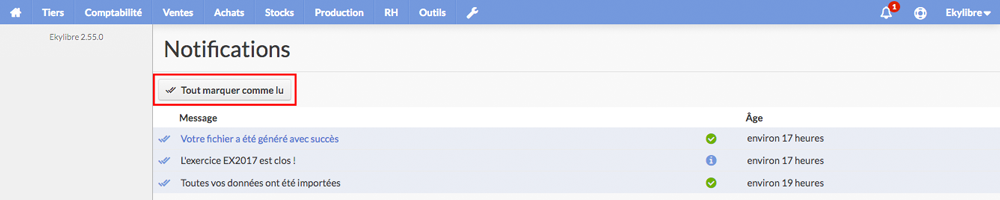
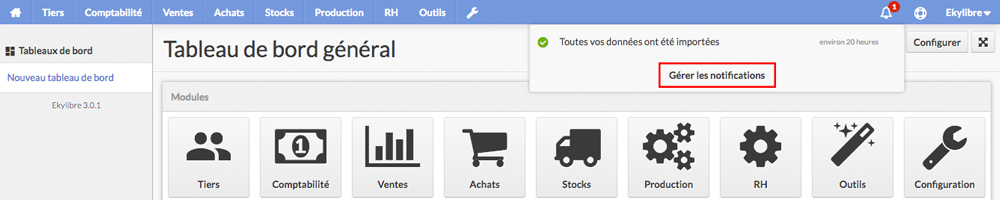
Accountacy 2019 + Notifications

diff --git a/content/fr/chapitre5.html b/content/fr/chapitre5.html
@@ -287,6 +287,14 @@
       <h2 class="texte aerateur">Glossaire du chapitre</h2>
       <div class="divTableGlossaire marge">
          <div class="divTableBody">
+			<div class="divTableRow">
+               <div class="divTableCellGlossaire1">
+                  CSV
+               </div>
+               <div class="divTableCellGlossaire2">
+                  un fichier CSV est un fichier texte où chaque ligne du texte correspond à une ligne d'un tableau et les virgules correspondent aux séparations entre les colonnes
+               </div>
+            </div>
             <div class="divTableRow">
                <div class="divTableCellGlossaire1" style="width: auto">
                   Interface
@@ -308,15 +316,7 @@
                   Notification
                </div>
                <div class="divTableCellGlossaire2">
-                  message émis par l'application
-               </div>
-            </div>
-            <div class="divTableRow">
-               <div class="divTableCellGlossaire1">
-                  CSV
-               </div>
-               <div class="divTableCellGlossaire2">
-                  un fichier CSV est un fichier texte où chaque ligne du texte correspond à une ligne d'un tableau et les virgules correspondent aux séparations entre les colonnes
+                  message émis par l'application ou par le navigateur Web pour alerter l'utilisateur de la fin d'une tâche
                </div>
             </div>
             <div class="divTableRow">
@@ -447,22 +447,39 @@
       <p class="texte">Sur la plupart des tableaux, en mode d'affichage "Liste", il permet de personnaliser la présentation des données &#40;affichage/masquage des colonnes, nombre de lignes par page&#41; et de réaliser des exports aux formats ODF et CSV&nbsp;:</p>
       <p class="texte"><img src="../images/chapitre5/custom1.png" class="contour-img" alt="Personnalisation tableau" data-action="zoom" /></p>
       <p class="texte"><img src="../images/chapitre5/custom2.png" class="contour-img" alt="Personnalisation tableau" data-action="zoom" /></p>
-      <p class="texte">Lorsque l'application vous informe de l'échec ou de la réussite d'une opération interne telle que l'import de données, la génération d'un document ou la clôture d'un exercice comptable, la cloche<img src="../images/chapitre5/bell-o-blue.svg" alt="cloche bleue" height="20" class="align-icone icone-marge-gauche icone-marge-droite">située dans le "Menu utilisateur" est adjointe d'une pastille de couleur rouge avec le nombre de notifications non lues générées par l'application.</p>
+	  <p class="aerateur-haut"><span class="titre-advice texte">Notifications</span></p>
+	  <p class="texte">Le standard «&nbsp;Web Push&nbsp;» permet aux sites Web d’envoyer des notifications à leurs utilisateurs sous forme de nouveaux messages ou de contenu mis à jour. Tant que le navigateur utilisé est ouvert, les sites Web qui ont obtenu une permission peuvent envoyer des notifications à votre navigateur et les afficher à l’écran. Les utilisateurs peuvent facilement autoriser ou désactiver les notifications et contrôler la façon dont ces notifications apparaîtront. Activez ou non les notifications Ekylibre une fois arrivé&#40;e&#41; dans l'application.</p>
+	  <p class="texte"><img src="../images/chapitre5/notif-navigateur1.png" class="contour-img" alt="Notifications navigateur" data-action="zoom" /></p>
+	  <p class="texte">Exemple de notification&nbsp;:</p>
+	  <p class="texte"><img src="../images/chapitre5/notif-navigateur2.png" class="contour-img" alt="Notifications navigateur" data-action="zoom" /></p>
+	  <p class="texte aerateur-haut">En parallèle, Ekylibre dispose de son propre système de notification. Il consigne, dans l'ordre chronologique, l'ensemble des opérations internes réalisées par l'application. Il permet également de consulter l'historique complet de ces opérations en indiquant depuis combien de temps elles ont été effectuées.</p>
+      <p class="texte">Les notifications vous informent notamment de l'échec ou de la réussite d'une opération interne comme par exemple l'import de données, la génération d'un document ou la clôture d'un exercice comptable.<br />La cloche<img src="../images/chapitre5/bell-o-blue.svg" alt="cloche bleue" height="20" class="align-icone icone-marge-gauche icone-marge-droite">située dans le "Menu utilisateur" est alors adjointe d'une pastille de couleur rouge<img src="../images/commun/marker.svg" alt="Notification" height="20" class="align-icone icone-marge-gauche icone-marge-droite">avec le nombre de notifications non lues générées par l'application.</p>
       <p align="center" class="texte"><img src="../images/chapitre5/schema-cloche.svg" alt="Schéma notification" height="30" class="bouton"></p>
-      <p class="texte">Cliquez sur la cloche pour afficher la ou les notification&#40;s&#41; sous le "Menu utilisateur"&nbsp;:</p>
-      <p class="texte"><img src="../images/chapitre5/notification1.png" class="contour-img" alt="Notification" data-action="zoom" /></p>
-      <p class="texte">Cliquez sur le lien "Gérer les notifications" pour afficher toutes les messages conservés dans votre ferme&nbsp;:</p>
-      <p class="texte">Notez qu'en cliquant sur la cloche, seules les notifications dont vous êtes à l'origine sont listées, alors qu'en sélectionnant "Gérer les notifications", les notifications générées par tous les utilisateurs &#40;d'autres personnes ayant accès à votre ferme, voir le <a href="../chapitre11" class="avoid-clicks" target="_self">chapitre 11 - Accès</a>&#41; sont affichées.</p>
+	  <p class="texte">Cliquez sur la cloche pour afficher la ou les nouvelle&#40;s&#41; notification&#40;s&#41; sous le "Menu utilisateur".</p>
+	  <p class="texte"><img src="../images/chapitre5/notification1.png" class="contour-img" alt="Notification" data-action="zoom" /></p>
+	  <p class="texte">Notez qu'en cliquant sur la cloche, seules les notifications dont vous êtes à l'origine sont listées, alors qu'en sélectionnant "Gérer les notifications", les notifications générées par tous les utilisateurs &#40;d'autres personnes ayant accès à votre ferme, voir le <a href="../chapitre11" class="avoid-clicks" target="_self">chapitre 11 - Accès</a>&#41; sont affichées.</p>
       <p class="texte"><img src="../images/chapitre5/notification2.png" class="contour-img" alt="Notification" data-action="zoom" /></p>
-      <p class="texte">Chaque message est assorti d'un indicateur en couleur selon la nature de la notification. Dans certains cas, le message est un lien pour accéder directement à un document ou à un module en rapport avec l'opération réalisée.</p>
+	  <p class="texte">Cliquez sur le lien "Gérer les notifications" pour afficher toutes les notifications conservées dans votre ferme.</p>
+      <p class="texte"><img src="../images/chapitre5/notification3.png" class="contour-img" alt="Notification" data-action="zoom" /></p>
+	  <p class="texte">La présence du symbole<img src="../images/chapitre5/check-all.svg" alt="Double check" height="15" class="icone-marge-gauche icone-marge-droite">devant le message signale la lecture ou non de celui-ci.</p>
+      <p class="texte">Chaque message est assorti d'un indicateur en couleur selon sa nature. Dans certains cas, le message est un lien pour accéder directement à un document ou à un module en rapport avec l'opération réalisée.</p>
       <p class="texte"><img src="../images/chapitre5/check-circle.svg" alt="Statut vert" height="20" class="align-icone icone-marge-droite">signale une opération réussie.</p>
       <p class="texte"><img src="../images/chapitre5/info-circle.svg" alt="Statut orange" height="20" class="align-icone icone-marge-droite">signale une information.</p>
       <p class="texte"><img src="../images/chapitre5/exclamation-circle.svg" alt="Statut rouge" height="20" class="align-icone icone-marge-droite">signale un avertissement.</p>
       <p class="texte"><img src="../images/chapitre5/close-circle.svg" alt="Statut rouge" height="20" class="align-icone icone-marge-droite">signale une opération en échec.</p>
-      <p class="texte">Une fois que vous avez pris connaissance du ou des message&#40;s&#41; et que l'information n'a plus de raison d'être conservée, validez sa lecture en cliquant sur le bouton "Tout marquer comme lu" pour supprimer les messages et la pastille rouge à droite de la cloche disparait.</p>
-      <span class="titre-advice texte">Fenêtre principale<br /></span>
+      <p class="texte">Une fois que vous avez pris connaissance du ou des message&#40;s&#41;, validez la lecture en cliquant sur le bouton&nbsp;:</p>
+	  <p class="texte" align="center"><img src="../images/chapitre5/marquer.svg" alt="Tout marquer comme lu" height="30"></p>
+	  <p class="texte">Le symbole<img src="../images/chapitre5/check-all.svg" alt="Double check" height="15" class="icone-marge-gauche icone-marge-droite">devant chaque message disparaît ainsi que la pastille rouge à droite de la cloche jusqu'à la génération d'une nouvelle notification.</p>
+	  <p class="aerateur-haut"><span class="titre-advice texte">Messages</span></p>
+	  <p class="texte">Affichés dans la fenêtre principale et complémentaires des notifications, certains messages vous informeront de l'avancée de certaines tâches, vous préviendront soit d'une erreur interne, soit d'une mauvaise manipulation ou vous avertiront d'un prérequis.</p>
+	  <p class="texte">Cliquez sur le symbole<img src="../images/commun/times2.svg" alt="Supprimer" height="15" class="icone-marge-gauche icone-marge-droite">à droite du message pour le supprimer le cas échéant.</p>
+	  <p class="texte"><img src="../images/chapitre5/message1.png" class="contour-img" alt="Message" data-action="zoom" /></p>
+	  <p class="texte"><img src="../images/chapitre5/message2.png" class="contour-img" alt="Message" data-action="zoom" /></p>
+	  <p class="texte"><img src="../images/chapitre5/message3.png" class="contour-img" alt="Message" data-action="zoom" /></p>
+	  <p class="texte"><img src="../images/chapitre5/message4.png" class="contour-img" alt="Message" data-action="zoom" /></p>
+      <p class="aerateur-haut"><span class="titre-advice texte">Fenêtre principale</span></p>
       <p class="texte">Les informations affichées et la liste des champs à renseigner peuvent occuper une hauteur importante dans la fenêtre principale.<br />Réduisez ou développez les informations des sections avec les boutons<img src="../images/commun/minus-square-o.svg" alt="moins" height="15" class="icone-marge-gauche icone-marge-droite">et<img src="../images/commun/plus-square-o.svg" alt="plus" height="15" class="icone-marge-gauche icone-marge-droite">à droite de la fenêtre principale.</p>
-      <p class="texte"><img src="../images/commun/dev-reduc.png" class="contour-img" alt="Réduction agrandissement des sections" data-action="zoom" /></p>
+      <p class="texte"><img src="../images/chapitre5/dev-reduc.png" class="contour-img" alt="Réduction agrandissement des sections" data-action="zoom" /></p>
       <p class="texte">De la même manière, la fonction de recherche contextuelle &#40;les champs et filtres disponibles dépendent de la fonctionnalité sélectionnée&#41; peut être dépliée ou repliée avec les boutons<img src="../images/commun/plus-square-o.svg" alt="moins" height="15" class="icone-marge-gauche icone-marge-droite">et<img src="../images/commun/minus-square-o.svg" alt="plus" height="15" class="icone-marge-gauche icone-marge-droite">à droite de la fenêtre principale.</p>
       <p class="texte"><img src="../images/chapitre5/search1.png" class="contour-img" alt="Champ de recherche" data-action="zoom" /></p>
       <p class="texte"><img src="../images/chapitre5/search2.png" class="contour-img" alt="Champ de recherche" data-action="zoom" /></p>

diff --git a/content/fr/chapitre6.html b/content/fr/chapitre6.html
@@ -373,7 +373,7 @@
       <p class="texte titre-advice">2. La validation comptable proprement dite</p>
       <p class="texte">Il s'agit d'une phase de traitement informatique volontaire, activée grâce à une fonction du logiciel, qui consiste à figer les différents éléments de l'écriture de façon à ce que toute modification ultérieure de l'un de ses éléments soit impossible.</p>
       <p class="texte titre-advice">3. Après la validation comptable d'une écriture</p>
-      <p class="texte">Le livre-journal et le grand-livre d’une comptabilité informatisée ne présentent un caractère régulier, sincère et probant qu'après validation des écritures comptables, d’où l’importance de cette fonction.</p>
+      <p class="texte">Le livre-journal et le Grand-livre d’une comptabilité informatisée ne présentent un caractère régulier, sincère et probant qu'après validation des écritures comptables, d’où l’importance de cette fonction.</p>
       <p class="texte">La validation implique de respecter plusieurs conditions essentielles au regard des principes comptables&nbsp;:</p>
       <div class="divTableListe marge">
          <div class="divTableBody">
@@ -664,7 +664,7 @@
       </div>
       <p class="texte">Deux plans de compte sont disponibles dans l'application&nbsp;: le Plan comptable agricole ‒ Arrêté du 11/12/1986 et le Plan comptable général de 1982 ‒ Arrêté du 14/12/2007.</p>
 	  <p class="texte">C'est la sélection du régime fiscal de l'entreprise dans l'assistant de démarrage qui définit automatiquement le plan de comptes adapté à son activité principale.</p>
-      <p class="texte">Pour une meilleure présentation des états, la longueur des comptes comptables a été homogénéisée à 8 chiffres, comme par exemple 60120000, sauf pour les comptes de tiers &#40;clients et fournisseurs uniquement&#41; composés du numéro de compte centralisateur à 3 chiffres et du numéro auxiliaire &#40;pouvant être une chaîne de caractères alphanumériques&#41;.</p>
+      <p class="texte">Pour une meilleure présentation des états, la longueur des comptes comptables a été homogénéisée à 8 chiffres &#40;10 si vous avez choisi cette option dans l'assistant de démarrage&#41;, comme par exemple 60120000, sauf pour les comptes de tiers &#40;clients et fournisseurs uniquement&#41; composés du numéro de compte centralisateur à 3 chiffres et du numéro auxiliaire &#40;pouvant être une chaîne de caractères alphanumériques&#41;.</p>
       <h3 class="texte">1 - Différences entre le plan comptable général et le plan comptable agricole</h3>
       <p class="texte">
          Les différences essentielles entre le plan comptable général et le plan comptable agricole se situent essentiellement sur les classes suivantes&nbsp;:
@@ -1254,8 +1254,8 @@
          <img src="../images/commun/step6.svg" alt="6" width="52" />
       </div>
       <div class="process-txt">
-         <span class="titre-advice">Saisissez une date d'arrêté</span>
-         <p>Saisissez la date déterminant la fin de la période des écritures échangées.</p>
+         <span class="titre-advice">Choisissez une date d'arrêté</span>
+         <p>Sélectionnez la date déterminant la fin de la période des écritures échangées.</p>
          <p class="max-img-process"><img src="../images/chapitre6/echange5.png" class="contour-img" alt="Création nouvel échange" data-action="zoom" /></p>
 		 <p class="max-img-process"><img src="../images/chapitre6/echange6.png" class="contour-img" alt="Création nouvel échange" data-action="zoom" /></p>
          <p>Cliquez sur <span class="btn-blue">Créer</span> pour valider l'opération.</p>
@@ -1382,9 +1382,9 @@
       <h6>Guide de prise en main • Comptabilité • Grand-Livre</h6>
       <a class="slice-long" id="grand-livre"></a>
       <h2 class="texte aerateur">j - Grand-livre</h2>
-      <p class="texte">Un grand-livre est la transcription sur un document unique de la totalité des mouvements de comptabilité d’une exploitation. Ces mouvements sont classés par compte, dans l'ordre de numéro prévu par le plan comptable.</p>
-      <p class="texte"><strong>Que doit contenir le grand-livre&nbsp;?</strong></p>
-      <p class="texte">Le grand-livre doit obligatoirement faire mention de plusieurs éléments. Il doit établir la liste des comptes, classés dans l'ordre de leurs numéros, en donnant pour chacun d'eux les informations suivantes&nbsp;:</p>
+      <p class="texte">Un Grand-livre est la transcription sur un document unique de la totalité des mouvements de comptabilité d’une exploitation. Ces mouvements sont classés par compte, dans l'ordre de numéro prévu par le plan comptable.</p>
+      <p class="texte"><strong>Que doit contenir le Grand-livre&nbsp;?</strong></p>
+      <p class="texte">Le Grand-livre doit obligatoirement faire mention de plusieurs éléments. Il doit établir la liste des comptes, classés dans l'ordre de leurs numéros, en donnant pour chacun d'eux les informations suivantes&nbsp;:</p>
       <div class="divTableListe marge">
          <div class="divTableBody">
             <div class="divTableRow">
@@ -1450,9 +1450,9 @@
             </div>
          </div>
       </div>
-      <p class="texte">Le grand-livre permet ainsi d'entrer dans le détail des comptes et de retrouver les correspondances entre les différents mouvements. En résumé, il donne une vision simple et analytique de l'ensemble des informations.</p>
-      <p class="texte"><strong>Comment se présente un grand-livre&nbsp;?</strong></p>
-      <p class="texte">Le grand-livre regroupe l’ensemble des comptes qui ont été utilisés par l’entreprise dans le cadre de la tenue de sa comptabilité. Il se décline généralement en 2 formats&nbsp;:</p>
+      <p class="texte">Le Grand-livre permet ainsi d'entrer dans le détail des comptes et de retrouver les correspondances entre les différents mouvements. En résumé, il donne une vision simple et analytique de l'ensemble des informations.</p>
+      <p class="texte"><strong>Comment se présente un Grand-livre&nbsp;?</strong></p>
+      <p class="texte">Le Grand-livre regroupe l’ensemble des comptes qui ont été utilisés par l’entreprise dans le cadre de la tenue de sa comptabilité. Il se décline généralement en 2 formats&nbsp;:</p>
       <div class="divTableListe marge">
          <div class="divTableBody">
             <div class="divTableRow">
@@ -1460,7 +1460,7 @@
                   <img src="../images/commun/circle.svg" alt="Puce" height="15">
                </div>
                <div class="divTableCellPlan" style="width: auto">
-                  Le grand-livre général : comptes des classes 1 à 7&nbsp;;
+                  Le Grand-livre général : comptes des classes 1 à 7&nbsp;;
                </div>
             </div>
             <div class="divTableRow">
@@ -1468,12 +1468,12 @@
                   <img src="../images/commun/circle.svg" alt="Puce" height="15">
                </div>
                <div class="divTableCellPlan">
-                  Les grand-livre auxiliaire&nbsp;: détail des comptes 411 &#40;grand-livre auxiliaire clients&#41; ou détail des comptes 401 &#40;grand-livre auxiliaire fournisseurs&#41;.
+                  Les Grands-livres auxiliaires&nbsp;: détail des comptes 411 &#40;Grand-livre auxiliaire clients&#41; ou détail des comptes 401 &#40;Grand-livre auxiliaire fournisseurs&#41;.
                </div>
             </div>
          </div>
       </div>
-      <p class="texte">Habituellement, les comptes qui figurent dans le grand-livre sont&nbsp;:</p>
+      <p class="texte">Habituellement, les comptes qui figurent dans le Grand-livre sont&nbsp;:</p>
       <div class="divTableListe marge">
          <div class="divTableBody">
             <div class="divTableRow">
@@ -1526,7 +1526,7 @@
             </div>
          </div>
       </div>
-      <p class="texte">Le grand-livre général doit présenter&nbsp;:</p>
+      <p class="texte">Le Grand-livre général doit présenter&nbsp;:</p>
       <div class="divTableListe marge">
          <div class="divTableBody">
             <div class="divTableRow">
@@ -1555,7 +1555,7 @@
             </div>
          </div>
       </div>
-      <p class="texte">Voici de quelle manière sont classés les comptes, opérations, et sommes des débits et crédits dans un grand-livre général&nbsp;:</p>
+      <p class="texte">Voici de quelle manière sont classés les comptes, opérations, et sommes des débits et crédits dans un Grand-livre général&nbsp;:</p>
       <div class="divTableListe marge">
          <div class="divTableBody">
             <div class="divTableRow">
@@ -1584,10 +1584,10 @@
             </div>
          </div>
       </div>
-      <p class="texte">Les exploitations doivent conserver leur grand-livre pendant une période de 10 ans minimum à compter de la date de la dernière inscription.</p>
-      <p class="texte"><strong>Qu’est-ce qu’un grand-livre auxiliaire&nbsp;?</strong></p>
-      <p class="texte">Les grands-livres auxiliaires sont formés par l'ensemble des comptes individuels de même type &#40;clients, fournisseurs, etc.&#41;. Ils permettent ainsi d'établir un relevé nominatif de la position de chaque compte avec le détail des mouvements.</p>
-      <p class="texte">Les comptes auxiliaires font partie intégrante du grand-livre général. Néanmoins, il n'est retranscrit dans le grand-livre général que le solde total des comptes sous le numéro correspondant. Par exemple 411 pour les clients et 401 pour les fournisseurs.</p>
+      <p class="texte">Les exploitations doivent conserver leur Grand-livre pendant une période de 10 ans minimum à compter de la date de la dernière inscription.</p>
+      <p class="texte"><strong>Qu’est-ce qu’un Grand-livre auxiliaire&nbsp;?</strong></p>
+      <p class="texte">Les Grands-livres auxiliaires sont formés par l'ensemble des comptes individuels de même type &#40;clients, fournisseurs, etc.&#41;. Ils permettent ainsi d'établir un relevé nominatif de la position de chaque compte avec le détail des mouvements.</p>
+      <p class="texte">Les comptes auxiliaires font partie intégrante du Grand-livre général. Néanmoins, il n'est retranscrit dans le Grand-livre général que le solde total des comptes sous le numéro correspondant. Par exemple 411 pour les clients et 401 pour les fournisseurs.</p>
       <p class="texte aerateur-haut">Passez au <a class="avoid-clicks" href="../chapitre7">chapitre suivant</a> de ce guide.</p>
       <div class="navishort aerateur-haut">
          <div class="divTable">
